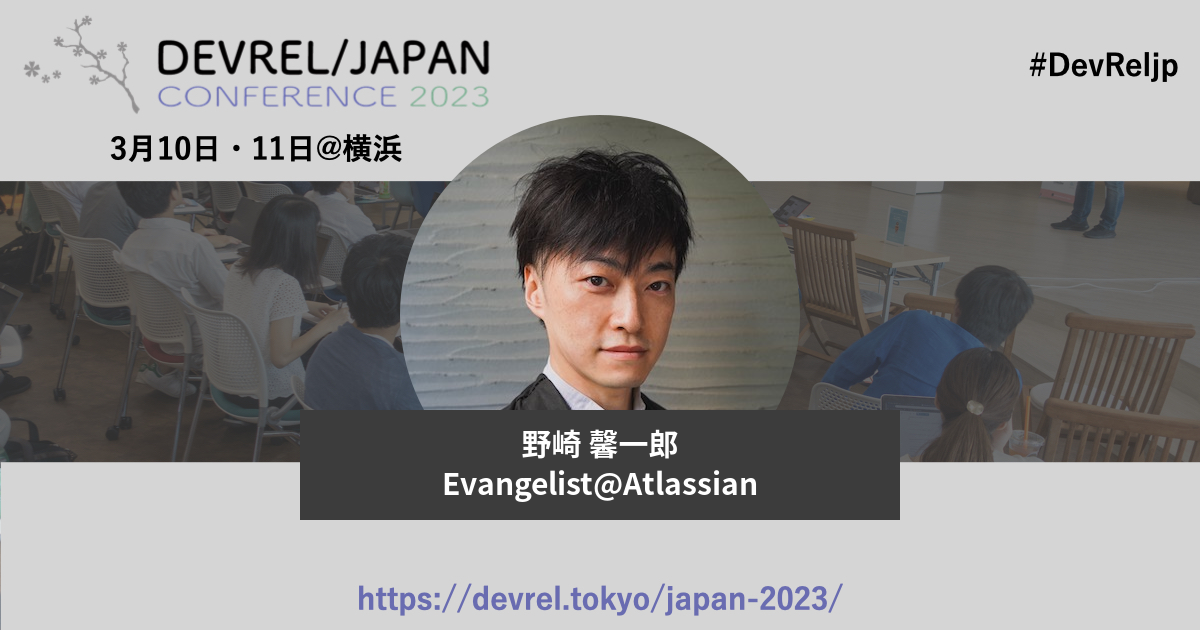
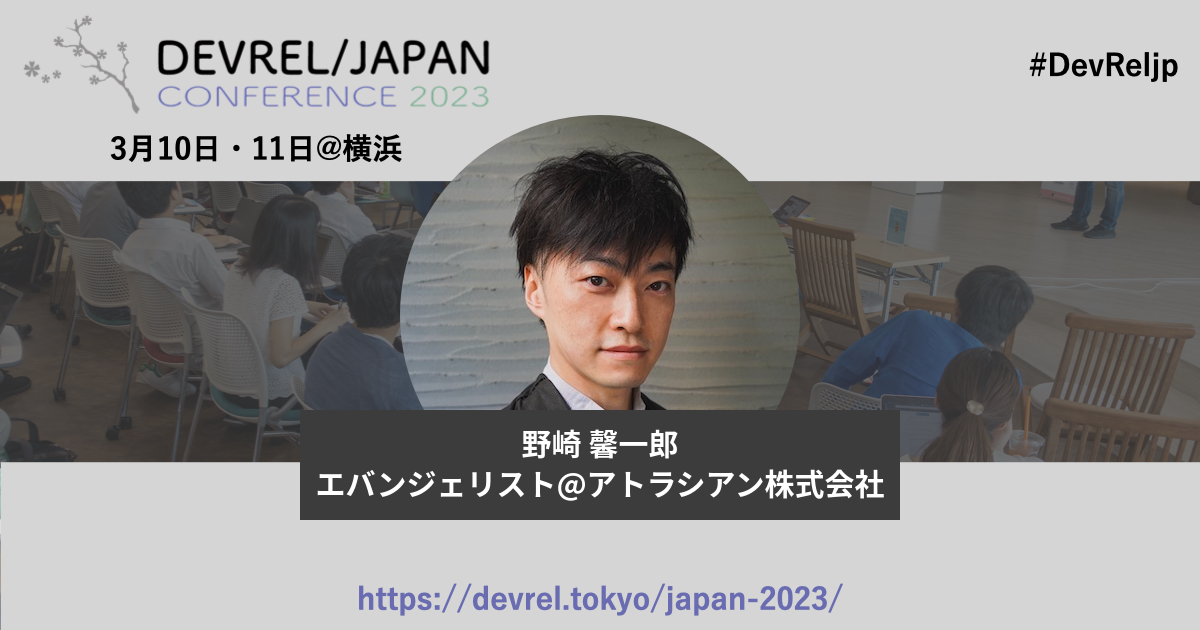
auto update

Changed region(s): [[0.2467, 0.7238, 0.74, 0.8143]]

diff --git a/organizers/keiichiro.md b/organizers/keiichiro.md
@@ -1,7 +1,7 @@
 ---
 layout: person
 permalink: /organizers/keiichiro/
-title: 野崎 馨一郎@Atlassian
+title: 野崎 馨一郎@アトラシアン株式会社
 ogp: /japan-2023/image/ogp/keiichiro.jpg
 type: organizer
 id: keiichiro
